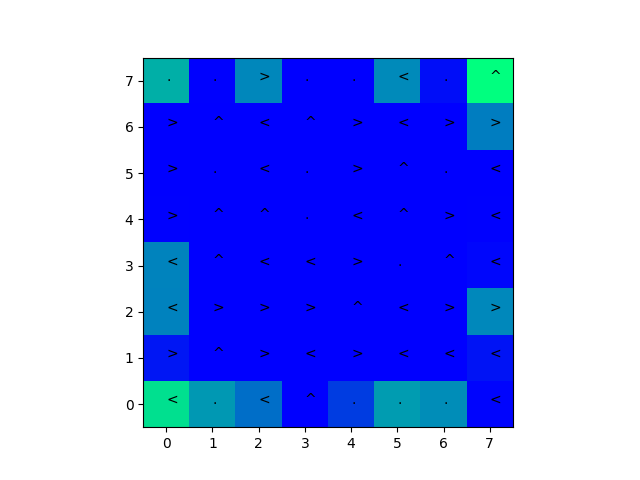
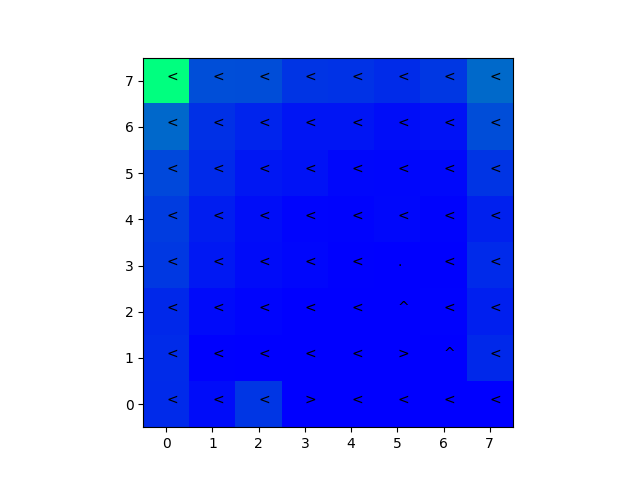
Added AMRL-v3 (re-commit) Added an AMRL-variant that performs 'global Q-table updates' after each episode, using a worklist-like algorithm. Variant outperforms AMRL both in large deterministic and small non-deterministic settings, but using different settings. Performance on large non-deterministic 
Status: Working & somewhat tested, changes still need to be made
Current Problems:
	* Settings need to be specified to environment
	* Final states are clumsily described ('optimistic' output transitions which need to be compensated by adding a 'stopPenalty'). There must be a nicer way to do this...

diff --git a/AMRL_variant_v3.py b/AMRL_variant_v3.py
@@ -1,15 +1,13 @@
 '''
-    AMRL-V2: 
+    AMRL-V3: 
 
 Based on https://arxiv.org/abs/2005.12697, this file contains code for an Agent to determine both a Transition Table and 
 (optimal) policy for a Active-Learning environment (meaning a partially observable env where observations have costs).
 
-A full description can be found in the report corresponding to this code. Briefly, the following are added/altered:
-    * A Loss-function is added to explicitly calculate the 'worth' of measuring;
-    * The belief-state is expanded from a most-likely state to a discretized belief based on the current Transition Table
-    * Early exploration is encouraged by making the Q-table optimistic (as supposed to having seperate Q-tables for measuring and not-measuring)
+A full description can be found in the report corresponding to this code. Briefly, the following has been added/altered between v2 & v3:
+    * A Global Q-update has been implemented (TBW...)
 
-(I should probably add a brief description of the algorithm here, too)
+(I should probably add a brief description here, anyway...)
 
 '''
 
@@ -18,22 +16,24 @@ import math as m
 from AM_Env_wrapper import AM_ENV
 
 
-class AMRL_v2:
+class AMRL_v3:
 
     #######################################################
     ###     INITIALISATION AND DEFINING VARIABLES:      ###
     #######################################################
 
-    def __init__(self, env:AM_ENV, eta = 0.05, nmbr_particles = 10):
+    def __init__(self, env:AM_ENV, eta = 0.0, nmbr_particles = 10):
         # Environment arguments:
         self.env = env
         self.StateSize, self.ActionSize, self.MeasureCost, self.s_init = env.get_vars()
 
         # Algo-specific arguments:
         self.eta, self.nmbr_particles = eta, nmbr_particles
-        self.NmbrOptimiticTries = 25
+        self.NmbrOptimiticTries = 20 # smaller for smaller environments
         self.selfLoopPenalty = 0.8
         self.lossBoost = 1
+        self.stopPenalty = 0.5 # smaller (0.01) for smaller/nondet environments
+        self.updateAccuracy = 0.01
 
         self.lr = 1 # Learning rate. 
         #Currently unused: instead, Q is re-calculate each pass using Trans-table and current Q-values
@@ -44,12 +44,15 @@ class AMRL_v2:
 
     def init_run_variables(self):
         # Arrays keeping track of model:
-        self.QTable             = np.ones ( (self.StateSize, self.ActionSize) )                          # as used by algos: includes initial optimitic bias
-        self.QTableUnbiased     = np.zeros( (self.StateSize, self.ActionSize) ) + 0.8                    # only includes measured Q's
-        self.QTriesTable        = np.zeros ( (self.StateSize, self.ActionSize) )
-        self.TransTable         = np.zeros( (self.StateSize, self.ActionSize, self.StateSize) ) + 1/self.StateSize  # Prediction of transition probs: includes initial optimitic bias
+        self.QTable             = np.ones ( (self.StateSize, self.ActionSize), dtype=np.longfloat )                          # as used by algos: includes initial optimitic bias
+        self.QTableUnbiased     = np.zeros( (self.StateSize, self.ActionSize), dtype=np.longfloat )                          # only includes measured Q's
+        self.QTriesTable        = np.zeros( (self.StateSize, self.ActionSize) )
+        self.QTableRewards      = np.zeros( (self.StateSize, self.ActionSize) )
+        self.Q_max              = np.zeros( (self.StateSize), dtype=np.longfloat)
+        self.TransTable         = np.zeros( (self.StateSize, self.ActionSize, self.StateSize) )   # Prediction of transition probs: includes initial optimitic bias
         self.TransTableUnbiased = np.zeros( (self.StateSize, self.ActionSize, self.StateSize) )
         self.TTriesTable        = np.zeros( (self.StateSize, self.ActionSize) )
+        self.ChangedStates      = {}
         # Other vars:
         self.totalReward        = 0
         self.episodeReward      = 0
@@ -122,16 +125,24 @@ class AMRL_v2:
 
             self.episodeReward  += reward - cost
             self.steps_taken    += 1
-            #print(reward,self.QTable[2],self.TransTable[2])
+            #print(s, s_previous)
+
+            if self.steps_taken % 100 == 0:
+                print("{} steps taken in one episode: performing global update Q".format(self.steps_taken))
+                self.update_Q_globally()
+        #print(reward,self.QTable,self.TransTable)
             
         # Update model after done
 
         if not (self.has_transition_support(s, H) ):
             (s_observed, cost) = self.env.measure()
+            #print(s,s_observed, s_previous,H)
             s={}
             s[s_observed]=1
             self.episodeReward -= cost
         self.update_model(s,s_last_measurement,s_previous, H, reward, type="QT", isDone=True)
+        self.update_Q_globally()
+        #print(self.QTable)
 
         # update logging variables and return
         self.totalReward += self.episodeReward
@@ -142,6 +153,8 @@ class AMRL_v2:
         self.init_run_variables()
         epreward,epsteps,epms = np.zeros((nmbr_episodes)), np.zeros((nmbr_episodes)), np.zeros((nmbr_episodes))
         for i in range(nmbr_episodes):
+            if (i%100 == 0):
+                print(i)
             epreward[i], epsteps[i], epms[i]  = self.run_episode()
         print(self.TransTable, self.TTriesTable, self.QTable)
         if get_full_results:
@@ -185,10 +198,14 @@ class AMRL_v2:
         for s in S:
             P += S[s] * self.TransTable[s,action]
         # Filter unlikely next states (for efficiency)
+
         nonZero = np.nonzero(P)
         P,states = P[nonZero], np.arange(self.StateSize)[nonZero]
+        if np.sum(P) == 0:
+            P, states = np.ones(self.StateSize)/self.StateSize, np.arange(self.StateSize)
+        elif np.sum(P) < 1:
+            P = P/np.sum(P)
         
-
         # Sample next states
         SnextArray = np.random.choice(states, size=self.nmbr_particles, p=P)
 
@@ -214,11 +231,12 @@ class AMRL_v2:
         #print("Support for S={}:".format(S))
         for s in S:
             if  S[s] > (1/self.StateSize):
-                support += S[s]*self.TTriesTable[s,H[-1]]
+                support += min( S[s] * 2 * self.NmbrOptimiticTries, S[s]*self.TTriesTable[s,H[-1]] )
                 #print("s={}, TTries={}, support={}".format(s,self.TTriesTable[s,H[-1]],support))
-                
-        #print (support)
-        return support > self.NmbrOptimiticTries
+        if support < self.NmbrOptimiticTries:
+            #print(support)
+            0
+        return support >= self.NmbrOptimiticTries
 
     #######################################################
     ###                 MODEL UPDATING:                 ###
@@ -263,18 +281,18 @@ class AMRL_v2:
                 self.TransTable[s1,action] = self.TransTableUnbiased[s1,action]
                 #if (s1 ==1 & action==1):
                     #print("Testing T-update: S1={}, S2={}, action={}, prevTries={}, unbiased T-table non-zero at {} (with table={})".format(S1,S2,action,prevTries,np.nonzero(self.TransTableUnbiased[s1,action]),self.TransTableUnbiased[s1,action]))
+
+            return
                 
-                return
-                
-                    # Decide to used biased or unbiased table:
-                if prevTries+p1 > self.NmbrOptimiticTries:
+                #     # Decide to used biased or unbiased table:
+                # if prevTries+p1 > self.NmbrOptimiticTries:
                     
-                    self.TransTable[s1,action] = self.TransTableUnbiased[s1,action]
-                else:
-                    unbiasfactor = ( 1/self.NmbrOptimiticTries * (prevTries+p1))
-                    biasfactor = (1-unbiasfactor) * 1/self.StateSize
-                    self.TransTable[s1,action] =  unbiasfactor * self.TransTableUnbiased[s1,action] + biasfactor
-                    #print("T-table for {0} with action {1} chaged to {2} (unbiased = {3})".format(s1,action,self.TransTable[s1,action],self.TransTableUnbiased[s1,action]))
+                #     self.TransTable[s1,action] = self.TransTableUnbiased[s1,action]
+                # else:
+                #     unbiasfactor = ( 1/self.NmbrOptimiticTries * (prevTries+p1))
+                #     biasfactor = (1-unbiasfactor) * 1/self.StateSize
+                #     self.TransTable[s1,action] =  unbiasfactor * self.TransTableUnbiased[s1,action] + biasfactor
+                #     #print("T-table for {0} with action {1} chaged to {2} (unbiased = {3})".format(s1,action,self.TransTable[s1,action],self.TransTableUnbiased[s1,action]))
 
     def update_Q_lastStep_only(self,S1, S2, H, reward, isDone = False):
 
@@ -287,6 +305,8 @@ class AMRL_v2:
             thisQ = 0
             previousQ, previousTries = self.QTableUnbiased[s1,action], self.QTriesTable[s1,action]
             thisTries = previousTries + p1
+            if isDone:
+                reward -= self.stopPenalty
             for s2 in S2:
                 p2 = S2[s2]
                 pt = p1*p2 #chance of this transition having occured
@@ -295,14 +315,72 @@ class AMRL_v2:
                         thisQ += pt*np.max(self.QTableUnbiased[s2])
                     elif s1 == s2:
                         thisQ += pt*self.selfLoopPenalty*np.max(self.QTableUnbiased[s2])
+
             totQ = (previousQ*previousTries + (p1 * (self.df*thisQ + reward)) ) / (previousTries+p1)
 
             #print(s1,action,previousQ,totQ, previousQ-totQ)
             #print("Q-update: s1={}, s2={}, totQ ={}, current Q={}".format(s1,s2,totQ,self.QTableUnbiased[s1,action]))
             self.QTriesTable[s1,action], self.QTableUnbiased[s1,action] = thisTries, totQ
 
+            # Update reward table
+            self.QTableRewards[s1,action] = (self.QTableRewards[s1,action]*previousTries +reward) / (previousTries+p1)
+
             # Update QTable according to QTable_actual and #visits s1 (optimism)
             if self.QTriesTable[s1,action] > self.NmbrOptimiticTries:
                 self.QTable[s1,action] = totQ
             else:
                 self.QTable[s1,action] = (thisTries*totQ + (self.NmbrOptimiticTries - thisTries)) / self.NmbrOptimiticTries
+
+    def update_Q_globally(self):
+        # Note: the efficiency of this algo could be hugely improved when using better datatypes (heaps to get max node, etc.)
+        # However, to test if this idea even works I'll just write a quick-and-dirty version for now.
+
+        # Initialise (should be done throughout algo!)
+        self.Q_max = np.max(self.QTable, axis=1)
+
+        for i in range(self.StateSize):
+            self.ChangedStates[i] = self.Q_max[i]
+
+        i = 0
+        #print("Q: {}\n Qmax: {} \n ".format(self.QTable, self.Q_max))
+        while self.ChangedStates:
+            i+=1
+            # Get current node
+            s_source = max(self.ChangedStates) #key & val?
+
+            # Go through all neighbours s:
+            for action in range(self.ActionSize):
+                to_update = np.unique( np.nonzero(self.TransTable[:,action,s_source]) ) #correct?
+                for s in to_update:
+
+                    # for each neighbour, update Q:
+                    Q_neighbours = self.TransTable[s, action] * self.df * self.Q_max
+                    Q_neighbours[s] = Q_neighbours[s]*self.selfLoopPenalty
+                    Q_tot = max(0.0, np.sum(Q_neighbours)/len(np.nonzero(Q_neighbours)[0]) + self.QTableRewards[s, action]) # ADD ? SIZE!
+                    self.QTableUnbiased[s,action] = Q_tot
+                    #print(np.sum(Q_neighbours), np.sum(Q_neighbours)/len(np.nonzero(Q_neighbours)[0]))
+
+                    # Add optimism if applicable:
+                    Tries = self.QTriesTable[s,action]
+                    if Tries > self.NmbrOptimiticTries:
+                        has_changed = (Q_tot  > np.max(self.QTable[s]))
+                        self.QTable[s,action] = Q_tot
+                    else:
+                        #has_changed = (self.QTable[s,action]*self.NmbrOptimiticTries - (self.NmbrOptimiticTries -Tries)) / Tries < Q_tot
+                        has_changed = False
+                        #has_changed = self.QTableUnbiased[s,action] < Q_tot + self.updateAccuracy
+                        self.QTable[s,action] = (Tries*Q_tot + (self.NmbrOptimiticTries - Tries)) / self.NmbrOptimiticTries
+                    
+                    # Add s to ChangedStates if new Q is maximal Q of state:
+                    if has_changed:
+                        self.ChangedStates[s] = Q_tot
+                        self.Q_max[s] = Q_tot
+            del self.ChangedStates[s_source]
+            if i > 100:
+                print(i,s_source, self.ChangedStates)
+                        
+
+
+                    
+                    
+

diff --git a/AMRL_tests.py b/AMRL_tests.py
@@ -12,6 +12,7 @@ import AMRL_Agent as amrl
 from AM_Env_wrapper import AM_ENV as wrapper
 from AM_Env_wrapper import AM_Visualiser as visualiser
 from AMRL_variant_v2 import AMRL_v2
+from AMRL_variant_v3 import AMRL_v3
 
 # Test code:
 
@@ -25,13 +26,13 @@ StateSize, ActionSize = 64,4
 
 keep_going = True
 r_tot = 0
-for i in range(10):
+for i in range(1):
     ENV = wrapper(env,StateSize,ActionSize,MeasureCost,s_init, True)
     ENV.reset()
 
-    agent_var2 = AMRL_v2(ENV, nmbr_particles = 10)
+    agent = AMRL_v3(ENV, nmbr_particles = 10)
 
-    (r_avg, rewards,steps,ms) = agent_var2.run(2000, True) 
+    (r_avg, rewards,steps,ms) = agent.run(4000, True) 
     print(np.sum(ms))
     print(np.sum(steps) -np.sum(ms))  
     print(r_avg)
@@ -39,16 +40,15 @@ for i in range(10):
 
 
 
-    if r_avg < 200:
-        print ("failed to find optimal strategy")
+    print ("failed to find optimal strategy")
 
-        vis = visualiser(ENV, agent_var2)
-        vis.plot_choice_certainty()
-        vis.plot_choice_density()
-        vis.plot_choice_maxQ()
-        vis.plot_choice_state_accuracy()
-        print("Density, Most Common Choices & Accuracy")
-        print (np.reshape(vis.density,  (8,8)))
-        print (np.reshape(np.argmax(vis.choice ,axis=1) ,  (8,8)))
-        print (np.reshape(vis.accuracy, (8,8)))
-        keep_going = False
+    vis = visualiser(ENV, agent)
+    vis.plot_choice_certainty()
+    vis.plot_choice_density()
+    vis.plot_choice_maxQ()
+    vis.plot_choice_state_accuracy()
+    print("Density, Most Common Choices & Accuracy")
+    print (np.reshape(vis.density,  (8,8)))
+    print (np.reshape(np.argmax(vis.choice ,axis=1) ,  (8,8)))
+    print (np.reshape(vis.accuracy, (8,8)))
+    keep_going = False

diff --git a/Run.py b/Run.py
@@ -21,6 +21,7 @@ import AMRL_Agent as amrl
 from AM_Env_wrapper import AM_ENV as wrapper
 from AM_Env_wrapper import AM_Visualiser as visualiser
 from AMRL_variant_v2 import AMRL_v2
+from AMRL_variant_v3 import AMRL_v3
 
 from AM_Gyms.NchainEnv import NChainEnv
 
@@ -138,11 +139,13 @@ match algo_name:
                 agent = amrl.AMRL_Agent(ENV)
         case "AMRL_v2":
                 agent = AMRL_v2(ENV)
+        case "AMRL_v3":
+                agent = AMRL_v3(ENV)
 
 """" 
 To be added: 
         * ACNO's
-        * AMRL_v2 with different settings?
+        * AMRL_vX's with different settings?
 """
 
 ######################################################
@@ -187,7 +190,7 @@ for i in range(nmbr_runs):
         t_this_end = t.perf_counter()
         if doSave:
                 export_data(rewards[:i+1],steps[:i],measures[:i],t_start)
-        print("Run {0} done with average reward {2}! (in {1} s)\n".format(i, t_this_end-t_this_start, r_avg))
+        print("Run {0} done with average reward {2}! (in {1} s, with {3} steps and {4} measurements avg.)\n".format(i, t_this_end-t_this_start, r_avg, np.average(steps[i]),np.average(measures[i])))
 print("Agent Done! ({0} runs, total of {1} s)\n\n".format(nmbr_runs, t.perf_counter()-t_start))
 
 ######################################################
